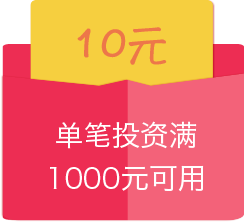
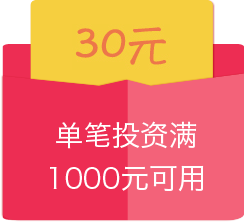
修改11月新手_邀请

Changed region(s): [[0.3156, 0.1081, 0.4016, 0.2703]]

diff --git a/static/stylesheets/november_new.css b/static/stylesheets/november_new.css
@@ -1,1 +1,1 @@
-*{padding:0;margin:0}#two-footer .footer-com{background:url("/static/images/act-img/act-footer-com4.png") no-repeat;position:relative;top:6px}#two-footer .footer-one{background-position:-1px 0px}#two-footer .footer-two{background-position:-369px -67px}#two-footer .footer-three{background-position:-411px -68px}#two-footer .footer-four{background-position:-451px -67px}#two-footer .footer-five{background-position:-355px 0px}#two-footer .footer-six{background-position:82px -108px}#two-footer .footer-seven{background-position:-418px 0px}.dif-footer{width:59px;display:inline-block;height:60px;position:relative;top:13px}.footer-com{background:url("/static/images/act-img/act-footer-com.png") no-repeat}.footer-one{background-position:-1px 0px}.footer-two{background-position:-369px -67px}.footer-three{background-position:-411px -68px}.footer-four{background-position:-451px -67px}.footer-five{background-position:-355px 0px}.footer-six{background-position:82px -108px}.footer-seven{background-position:-418px 0px}.wry-act-footer{width:1100px;height:290px;position:relative;margin:0 auto}.wry-act-footer .wry-act-copy{width:691px;height:100%;position:absolute}.wry-act-footer .wry-act-copy .wry-footer-logo{height:112px;width:267px;margin-bottom:30px;margin-top:10px}.wry-act-footer .wry-act-copy .act-hot{font-size:12px;margin-left:3px;line-height:40px}.wry-act-footer .wry-act-copy p{color:#fff}.wry-act-footer .wry-act-copy p span{width:43px;height:30px;display:inline-block;margin-left:3px}.wry-act-footer .wry-act-img{width:140px;height:62px;position:absolute;left:682px;top:145px}.wry-act-footer .wry-act-sao{width:270px;height:96%;position:absolute;right:0;top:12px}.wry-act-footer .wry-act-copy,.wry-act-footer .wry-act-img,.wry-act-footer .wry-act-sao{display:inline-block}.text-center,.txt-center{text-align:center}.mt50px{margin-top:50px}.relative{position:relative}.brown{color:#ffa82d}.banner{width:100%;height:778px;background:#5f92ee url("/static/imgs/pc_activity/november_user/nove-banner.png") center top no-repeat}.big-tit{width:520px;height:107px;line-height:99px;margin:30px auto;text-align:center;color:#fff;font-size:30px;background:url("/static/imgs/pc_activity/november_user/tit-bg.png") center center no-repeat;background-size:contain}.btn-box{margin-top:15px}.btn-box .red-btn{display:inline-block;width:220px;text-align:center;color:#fff;font-size:22px;background:#f5462e;padding:8px 0;border-radius:50px;background:#ffa82d;box-shadow:0 3px 0 rgba(255,70,45,0.15)}.main-part{width:830px;margin:60px auto 0;background:url("/static/imgs/pc_activity/november_user/n-route.png") center 78px no-repeat;padding-bottom:80px}.main-part .welfare-box{font-size:22px;float:left}.main-part .welfare-box .welfare-tit{color:#ffa92e}.main-part .welfare-box .welfare-cont{font-size:18px;color:#fff}.main-part .welfare-icon{display:block;width:110px;height:100px;background:url("/static/imgs/pc_activity/november_user/direction-post.png") no-repeat}.main-part .welfare1 .welfare-icon,.main-part .welfare3 .welfare-icon{float:left}.main-part .welfare1 .welfare-icon,.main-part .welfare3 .welfare-icon{float:left;margin-left:38px}.main-part .welfare1 .welfare-img,.main-part .welfare3 .welfare-img{float:right}.main-part .welfare1 .welfare-img{margin-right:30px}.main-part .welfare2,.main-part .welfare4{margin-top:110px;position:relative}.main-part .welfare2 .welfare-img,.main-part .welfare4 .welfare-img{float:left;margin-right:0}.main-part .welfare2 .welfare-box,.main-part .welfare4 .welfare-box{position:absolute;right:180px}.main-part .welfare2 .welfare-icon,.main-part .welfare4 .welfare-icon{background-position:0 -122px;float:right;margin-right:50px;width:125px;height:130px}.main-part .welfare3{margin-top:20px}.main-part .welfare3 .welfare-icon{background-position:0 -285px;height:120px;margin:0 10px 0 50px}.main-part .welfare4{margin-top:100px}.main-part .welfare4 .welfare-icon{background-position:0 -420px;height:135px}.rule-box{width:991px;height:637px;margin:-30px auto 0;background:url("/static/imgs/pc_activity/november_user/box-bg1.png") center top no-repeat;padding-top:70px;position:relative}.rule-box .rule-tit{font-size:18px;color:#3f72ce;text-align:center;margin-bottom:30px}.rule-box .packet-cont{margin-left:90px}.rule-box .packet-cont .packet-item{float:left;width:220px;margin-left:90px;margin-bottom:30px}.rule-box .packet-cont .packet-item .packet-img{background:url("/static/imgs/pc_activity/november_user/red-packet1.png") center top no-repeat;background-size:contain;width:100%;height:88px;line-height:88px;color:#fff;font-size:18px}.rule-box .packet-cont .packet-item .money-num{background:url("/static/imgs/pc_activity/november_user/money-icon.png") no-repeat;display:inline-block;height:20px;width:58px;margin-top:34px;margin-left:4px;float:left}.rule-box .packet-cont .packet-item .money-num.money-num1{width:45px;background-position:0 0;margin-left:15px}.rule-box .packet-cont .packet-item .money-num.money-num2{background-position:0 -36px}.rule-box .packet-cont .packet-item .money-num.money-num3{background-position:0 -72px}.rule-box .packet-cont .packet-item .money-num.money-num4{background-position:0 -107px}.rule-box .packet-cont .packet-item .money-tit{display:inline-block;width:158px;text-align:center;float:left}.rule-box .packet-cont .packet-item .packet-tit{font-size:18px;color:#d97819;width:100%;text-align:center;line-height:40px}.rule-box .leo-item{position:absolute;width:238px;height:247px;right:-70px;bottom:0;background:url("/static/imgs/pc_activity/november_user/leo.png") center top no-repeat;background-size:contain}.use-rule{width:100%;background:#3e5888;color:#fff;font-size:16px;padding:20px 0 40px;line-height:32px}.use-rule .use-rule-tit{font-size:20px;color:#ffa82d;text-align:center;line-height:38px;margin-top:20px}.use-rule .use-rult-cont{width:830px;margin:5px auto}.use-rule ul{list-style:decimal outside}.use-rule .litter-tit{font-size:14px;margin-top:20px;text-align:right}.n-invite-box{background-color:#3f72ce;width:100%;padding-top:30px;padding-bottom:50px;margin-top:50px}.n-invite-box .invite-packet{width:991px;margin:40px auto 10px}.n-invite-box .invite-packet .packet-item{width:33.33%;text-align:center;float:left;overflow:hidden}.n-invite-box .invite-packet .tit1{font-size:18px;color:#d97819;color:#ffa82d}.n-invite-box .invite-packet .tit2{font-size:18px;color:#fff}.n-invite-box .invite-packet .packet-img{width:172px;height:156px;background:url("/static/imgs/pc_activity/november_user/red-packet2.png") center top no-repeat;margin:20px auto}.n-invite-box .invite-packet .packet-img .money-num{background:url("/static/imgs/pc_activity/november_user/money-icon.png") no-repeat;display:inline-block;height:28px;width:66px;margin-top:18px}.n-invite-box .invite-packet .packet-img .money-num.money-num5{background-position:0 -141px}.n-invite-box .invite-packet .packet-img .money-num.money-num6{background-position:0 -184px}.n-invite-box .invite-packet .packet-img .money-num.money-num7{background-position:0 -227px}.n-invite-box .invite-packet .packet-img .money-p{display:inline-block;width:100%;padding-top:30px;font-size:18px;color:#fff}.n-invite-box .invite-prompt{width:991px;height:352px;background:url("/static/imgs/pc_activity/november_user/box-bg2.png") center top no-repeat;margin:0 auto;color:#d97819;font-size:16px;line-height:32px}.n-invite-box .invite-prompt .leo-img{float:right;width:225px;margin-right:80px}.n-invite-box .invite-prompt .prompt-tit{text-align:center;font-size:20px;color:#304556;margin-top:30px}.n-invite-box .invite-prompt .invite-prompt-r{padding-left:80px;list-style:decimal outside;margin-top:10px}.n-invite-box .invite-prompt .result{margin-top:30px;text-align:center}.n-invite-box .invite-prompt .result a{color:#3f72ce}.plus-icon{float:left;font-size:60px;margin-left:90px;color:#3f72ce}.gold-footer{background:#333;width:100%;height:260px}.gold-footer .gold-wrap{width:1100px;margin:0 auto}.gold-footer .gold-wrap img{position:absolute;top:-28px}.alert-page{position:fixed;top:0;left:0;height:100%;width:100%;background:#000;opacity:0.6;filter:alpha(opacity=60);z-index:999;display:none}.alert-box{background:#fff;border-radius:20px;height:200px;width:360px;padding:30px 20px;position:fixed;top:50%;left:50%;margin:-100px 0 0 -180px;z-index:9999;display:none}.alert-box .mt1r{margin-top:20px}.alert-box .alert-btn{display:inline-block;width:220px;text-align:center;color:#fff;font-size:22px;background:#f5462e;padding:8px 0;border-radius:50px;padding:5px 0;width:200px}.alert-box .alert-btn:active{background:#e0402b}.alert-box .alert-close{cursor:pointer;width:20px;height:20px;background:url("/static/imgs/pc_activity/november_user/close-btn.png") center center no-repeat;background-size:contain;position:absolute;top:15px;right:15px}.alert-box .alert-cont{line-height:35px;font-size:24px;text-align:center;height:70px}.alert-box .alert-cont .blue-txt{color:#2da4d9}.alert-box .pt{padding-top:35px}.alert-box.alert-error{padding-top:35px}.backtop{position:fixed;left:50%;margin-left:560px;bottom:100px;width:50px;text-align:center}.backtop .inline-block{display:inline-block}.backtop .backtop-icon,.backtop .weixin-code,.backtop .weixin-icon,.backtop .footer-qq{background-repeat:no-repeat}.backtop .backtop-icon,.backtop .weixin-icon,.backtop .footer-qq{background-image:url("/static/imgs/pc_activity/september/rht-icon.png")}.backtop .weixin-icon,.backtop .footer-qq{width:50px;height:62px}.backtop .backtop-box{width:100%;text-align:center;width:30px;opacity:0;filter:alpha(opacity=0);transition:all 0.3s;-moz-transition:all 0.3s;-webkit-transition:all 0.3s}.backtop .backtop-box .backtop-icon{background-position:-140px 0;width:21px;height:46px}.backtop .backtop-box .backtop-txt{width:27px;border-radius:15px;-moz-border-radius:15px;-webkit-border-radius:15px;background:#d64646;color:#fff;padding:10px 0;text-align:center;font-size:14px;margin-top:5px}.backtop.show-backtop .backtop-box{opacity:1;filter:alpha(opacity=100)}.backtop .footer-weixin{margin-top:10px;position:relative;overflow:hidden}.backtop .footer-weixin .weixin-icon{background-position:-70px 0}.backtop .footer-weixin .weixin-code{position:absolute;left:-150px;top:-50px;background:url("/static/imgs/pc_activity/september/code-bg.png") left top no-repeat;width:150px;height:186px;opacity:0;*display:none;transition:all 0.3s;-moz-transition:all 0.3s;-webkit-transition:all 0.3s}.backtop .footer-weixin:hover{overflow:visible}.backtop .footer-weixin:hover .weixin-code{opacity:1;*display:inline-block}.backtop .footer-qq{margin-top:10px;background-position:0 0}
+*{padding:0;margin:0}#two-footer .footer-com{background:url("/static/images/act-img/act-footer-com4.png") no-repeat;position:relative;top:6px}#two-footer .footer-one{background-position:-1px 0px}#two-footer .footer-two{background-position:-369px -67px}#two-footer .footer-three{background-position:-411px -68px}#two-footer .footer-four{background-position:-451px -67px}#two-footer .footer-five{background-position:-355px 0px}#two-footer .footer-six{background-position:82px -108px}#two-footer .footer-seven{background-position:-418px 0px}.dif-footer{width:59px;display:inline-block;height:60px;position:relative;top:13px}.footer-com{background:url("/static/images/act-img/act-footer-com.png") no-repeat}.footer-one{background-position:-1px 0px}.footer-two{background-position:-369px -67px}.footer-three{background-position:-411px -68px}.footer-four{background-position:-451px -67px}.footer-five{background-position:-355px 0px}.footer-six{background-position:82px -108px}.footer-seven{background-position:-418px 0px}.wry-act-footer{width:1100px;height:290px;position:relative;margin:0 auto}.wry-act-footer .wry-act-copy{width:691px;height:100%;position:absolute}.wry-act-footer .wry-act-copy .wry-footer-logo{height:112px;width:267px;margin-bottom:30px;margin-top:10px}.wry-act-footer .wry-act-copy .act-hot{font-size:12px;margin-left:3px;line-height:40px}.wry-act-footer .wry-act-copy p{color:#fff}.wry-act-footer .wry-act-copy p span{width:43px;height:30px;display:inline-block;margin-left:3px}.wry-act-footer .wry-act-img{width:140px;height:62px;position:absolute;left:682px;top:145px}.wry-act-footer .wry-act-sao{width:270px;height:96%;position:absolute;right:0;top:12px}.wry-act-footer .wry-act-copy,.wry-act-footer .wry-act-img,.wry-act-footer .wry-act-sao{display:inline-block}.text-center,.txt-center{text-align:center}.mt50px{margin-top:50px}.relative{position:relative}.brown{color:#ffa82d}.banner{width:100%;height:778px;background:#5f92ee url("/static/imgs/pc_activity/november_user/nove-banner.png") center top no-repeat}.big-tit{width:520px;height:107px;line-height:99px;margin:30px auto;text-align:center;color:#fff;font-size:30px;background:url("/static/imgs/pc_activity/november_user/tit-bg.png") center center no-repeat;background-size:contain}.btn-box{margin-top:15px}.btn-box .red-btn{display:inline-block;width:220px;text-align:center;color:#fff;font-size:22px;background:#f5462e;padding:8px 0;border-radius:50px;background:#ffa82d;box-shadow:0 3px 0 rgba(255,70,45,0.15)}.main-part{width:830px;margin:60px auto 0;background:url("/static/imgs/pc_activity/november_user/n-route.png") center 78px no-repeat;padding-bottom:80px}.main-part .welfare-box{font-size:22px;float:left}.main-part .welfare-box .welfare-tit{color:#ffa92e}.main-part .welfare-box .welfare-cont{font-size:18px;color:#fff}.main-part .welfare-icon{display:block;width:110px;height:100px;background:url("/static/imgs/pc_activity/november_user/direction-post.png") no-repeat}.main-part .welfare1 .welfare-icon,.main-part .welfare3 .welfare-icon{float:left}.main-part .welfare1 .welfare-icon,.main-part .welfare3 .welfare-icon{float:left;margin-left:38px}.main-part .welfare1 .welfare-img,.main-part .welfare3 .welfare-img{float:right}.main-part .welfare1 .welfare-img{margin-right:30px}.main-part .welfare2,.main-part .welfare4{margin-top:110px;position:relative}.main-part .welfare2 .welfare-img,.main-part .welfare4 .welfare-img{float:left;margin-right:0}.main-part .welfare2 .welfare-box,.main-part .welfare4 .welfare-box{position:absolute;right:180px}.main-part .welfare2 .welfare-icon,.main-part .welfare4 .welfare-icon{background-position:0 -122px;float:right;margin-right:50px;width:125px;height:130px}.main-part .welfare3{margin-top:20px}.main-part .welfare3 .welfare-icon{background-position:0 -285px;height:120px;margin:0 10px 0 50px}.main-part .welfare4{margin-top:100px}.main-part .welfare4 .welfare-icon{background-position:0 -420px;height:135px}.rule-box{width:991px;height:637px;margin:-30px auto 0;background:url("/static/imgs/pc_activity/november_user/box-bg1.png") center top no-repeat;padding-top:70px;position:relative}.rule-box .rule-tit{font-size:18px;color:#3f72ce;text-align:center;margin-bottom:30px}.rule-box .packet-cont{margin-left:90px}.rule-box .packet-cont .packet-item{float:left;width:220px;margin-left:90px;margin-bottom:30px}.rule-box .packet-cont .packet-item .packet-img{background:url("/static/imgs/pc_activity/november_user/red-packet1.png") center top no-repeat;background-size:contain;width:100%;height:88px;line-height:88px;color:#fff;font-size:18px}.rule-box .packet-cont .packet-item .money-num{background:url("/static/imgs/pc_activity/november_user/money-icon.png") no-repeat;display:inline-block;height:20px;width:58px;margin-top:34px;margin-left:4px;float:left}.rule-box .packet-cont .packet-item .money-num.money-num1{width:45px;background-position:0 0;margin-left:15px}.rule-box .packet-cont .packet-item .money-num.money-num2{background-position:0 -36px}.rule-box .packet-cont .packet-item .money-num.money-num3{background-position:0 -72px}.rule-box .packet-cont .packet-item .money-num.money-num4{background-position:0 -107px}.rule-box .packet-cont .packet-item .money-tit{display:inline-block;width:158px;text-align:center;float:left}.rule-box .packet-cont .packet-item .packet-tit{font-size:18px;color:#d97819;width:100%;text-align:center;line-height:40px}.rule-box .leo-item{position:absolute;width:238px;height:247px;right:-70px;bottom:0;background:url("/static/imgs/pc_activity/november_user/leo.png") center top no-repeat;background-size:contain}.use-rule{width:100%;background:#3e5888;color:#fff;font-size:16px;padding:20px 0 40px;line-height:32px}.use-rule .use-rule-tit{font-size:20px;color:#ffa82d;text-align:center;line-height:38px;margin-top:20px}.use-rule .use-rult-cont{width:830px;margin:5px auto}.use-rule ul{list-style:decimal outside}.use-rule .litter-tit{font-size:14px;margin-top:20px;text-align:right}.n-invite-box{background-color:#3f72ce;width:100%;padding-top:30px;padding-bottom:50px;margin-top:50px}.n-invite-box .invite-packet{width:991px;margin:40px auto 10px}.n-invite-box .invite-packet .packet-item{width:33.33%;text-align:center;float:left;overflow:hidden}.n-invite-box .invite-packet .tit1{font-size:18px;color:#d97819;color:#ffa82d}.n-invite-box .invite-packet .tit2{font-size:18px;color:#fff}.n-invite-box .invite-packet .packet-img{width:172px;height:156px;background:url("/static/imgs/pc_activity/november_user/red-packet2.png") center top no-repeat;margin:20px auto}.n-invite-box .invite-packet .packet-img .money-num{background:url("/static/imgs/pc_activity/november_user/money-icon.png") no-repeat;display:inline-block;height:28px;width:66px;margin-top:18px}.n-invite-box .invite-packet .packet-img .money-num.money-num5{background-position:0 -141px}.n-invite-box .invite-packet .packet-img .money-num.money-num6{background-position:0 -184px}.n-invite-box .invite-packet .packet-img .money-num.money-num7{background-position:0 -227px}.n-invite-box .invite-packet .packet-img .money-num.money-num8{background-position:0 -276px}.n-invite-box .invite-packet .packet-img .money-p{display:inline-block;width:100%;padding-top:30px;font-size:18px;color:#fff}.n-invite-box .invite-prompt{width:991px;height:352px;background:url("/static/imgs/pc_activity/november_user/box-bg2.png") center top no-repeat;margin:0 auto;color:#d97819;font-size:16px;line-height:32px}.n-invite-box .invite-prompt .leo-img{float:right;width:225px;margin-right:80px}.n-invite-box .invite-prompt .prompt-tit{text-align:center;font-size:20px;color:#304556;margin-top:30px}.n-invite-box .invite-prompt .invite-prompt-r{padding-left:80px;list-style:decimal outside;margin-top:10px}.n-invite-box .invite-prompt .result{margin-top:30px;text-align:center}.n-invite-box .invite-prompt .result a{color:#3f72ce}.plus-icon{float:left;font-size:60px;margin-left:90px;color:#3f72ce}.gold-footer{background:#333;width:100%;height:260px}.gold-footer .gold-wrap{width:1100px;margin:0 auto}.gold-footer .gold-wrap img{position:absolute;top:-28px}.alert-page{position:fixed;top:0;left:0;height:100%;width:100%;background:#000;opacity:0.6;filter:alpha(opacity=60);z-index:999;display:none}.alert-box{background:#fff;border-radius:20px;height:200px;width:360px;padding:30px 20px;position:fixed;top:50%;left:50%;margin:-100px 0 0 -180px;z-index:9999;display:none}.alert-box .mt1r{margin-top:20px}.alert-box .alert-btn{display:inline-block;width:220px;text-align:center;color:#fff;font-size:22px;background:#f5462e;padding:8px 0;border-radius:50px;padding:5px 0;width:200px}.alert-box .alert-btn:active{background:#e0402b}.alert-box .alert-close{cursor:pointer;width:20px;height:20px;background:url("/static/imgs/pc_activity/november_user/close-btn.png") center center no-repeat;background-size:contain;position:absolute;top:15px;right:15px}.alert-box .alert-cont{line-height:35px;font-size:24px;text-align:center;height:70px}.alert-box .alert-cont .blue-txt{color:#2da4d9}.alert-box .pt{padding-top:35px}.alert-box.alert-error{padding-top:35px}.backtop{position:fixed;left:50%;margin-left:560px;bottom:100px;width:50px;text-align:center}.backtop .inline-block{display:inline-block}.backtop .backtop-icon,.backtop .weixin-code,.backtop .weixin-icon,.backtop .footer-qq{background-repeat:no-repeat}.backtop .backtop-icon,.backtop .weixin-icon,.backtop .footer-qq{background-image:url("/static/imgs/pc_activity/september/rht-icon.png")}.backtop .weixin-icon,.backtop .footer-qq{width:50px;height:62px}.backtop .backtop-box{width:100%;text-align:center;width:30px;opacity:0;filter:alpha(opacity=0);transition:all 0.3s;-moz-transition:all 0.3s;-webkit-transition:all 0.3s}.backtop .backtop-box .backtop-icon{background-position:-140px 0;width:21px;height:46px}.backtop .backtop-box .backtop-txt{width:27px;border-radius:15px;-moz-border-radius:15px;-webkit-border-radius:15px;background:#d64646;color:#fff;padding:10px 0;text-align:center;font-size:14px;margin-top:5px}.backtop.show-backtop .backtop-box{opacity:1;filter:alpha(opacity=100)}.backtop .footer-weixin{margin-top:10px;position:relative;overflow:hidden}.backtop .footer-weixin .weixin-icon{background-position:-70px 0}.backtop .footer-weixin .weixin-code{position:absolute;left:-150px;top:-50px;background:url("/static/imgs/pc_activity/september/code-bg.png") left top no-repeat;width:150px;height:186px;opacity:0;*display:none;transition:all 0.3s;-moz-transition:all 0.3s;-webkit-transition:all 0.3s}.backtop .footer-weixin:hover{overflow:visible}.backtop .footer-weixin:hover .weixin-code{opacity:1;*display:inline-block}.backtop .footer-qq{margin-top:10px;background-position:0 0}

diff --git a/static/sass/partials/_november_new.sass b/static/sass/partials/_november_new.sass
@@ -239,6 +239,8 @@
           background-position: 0 -184px
         &.money-num7
           background-position: 0 -227px
+        &.money-num8
+          background-position: 0 -276px
       .money-p
         display: inline-block
         width: 100%
